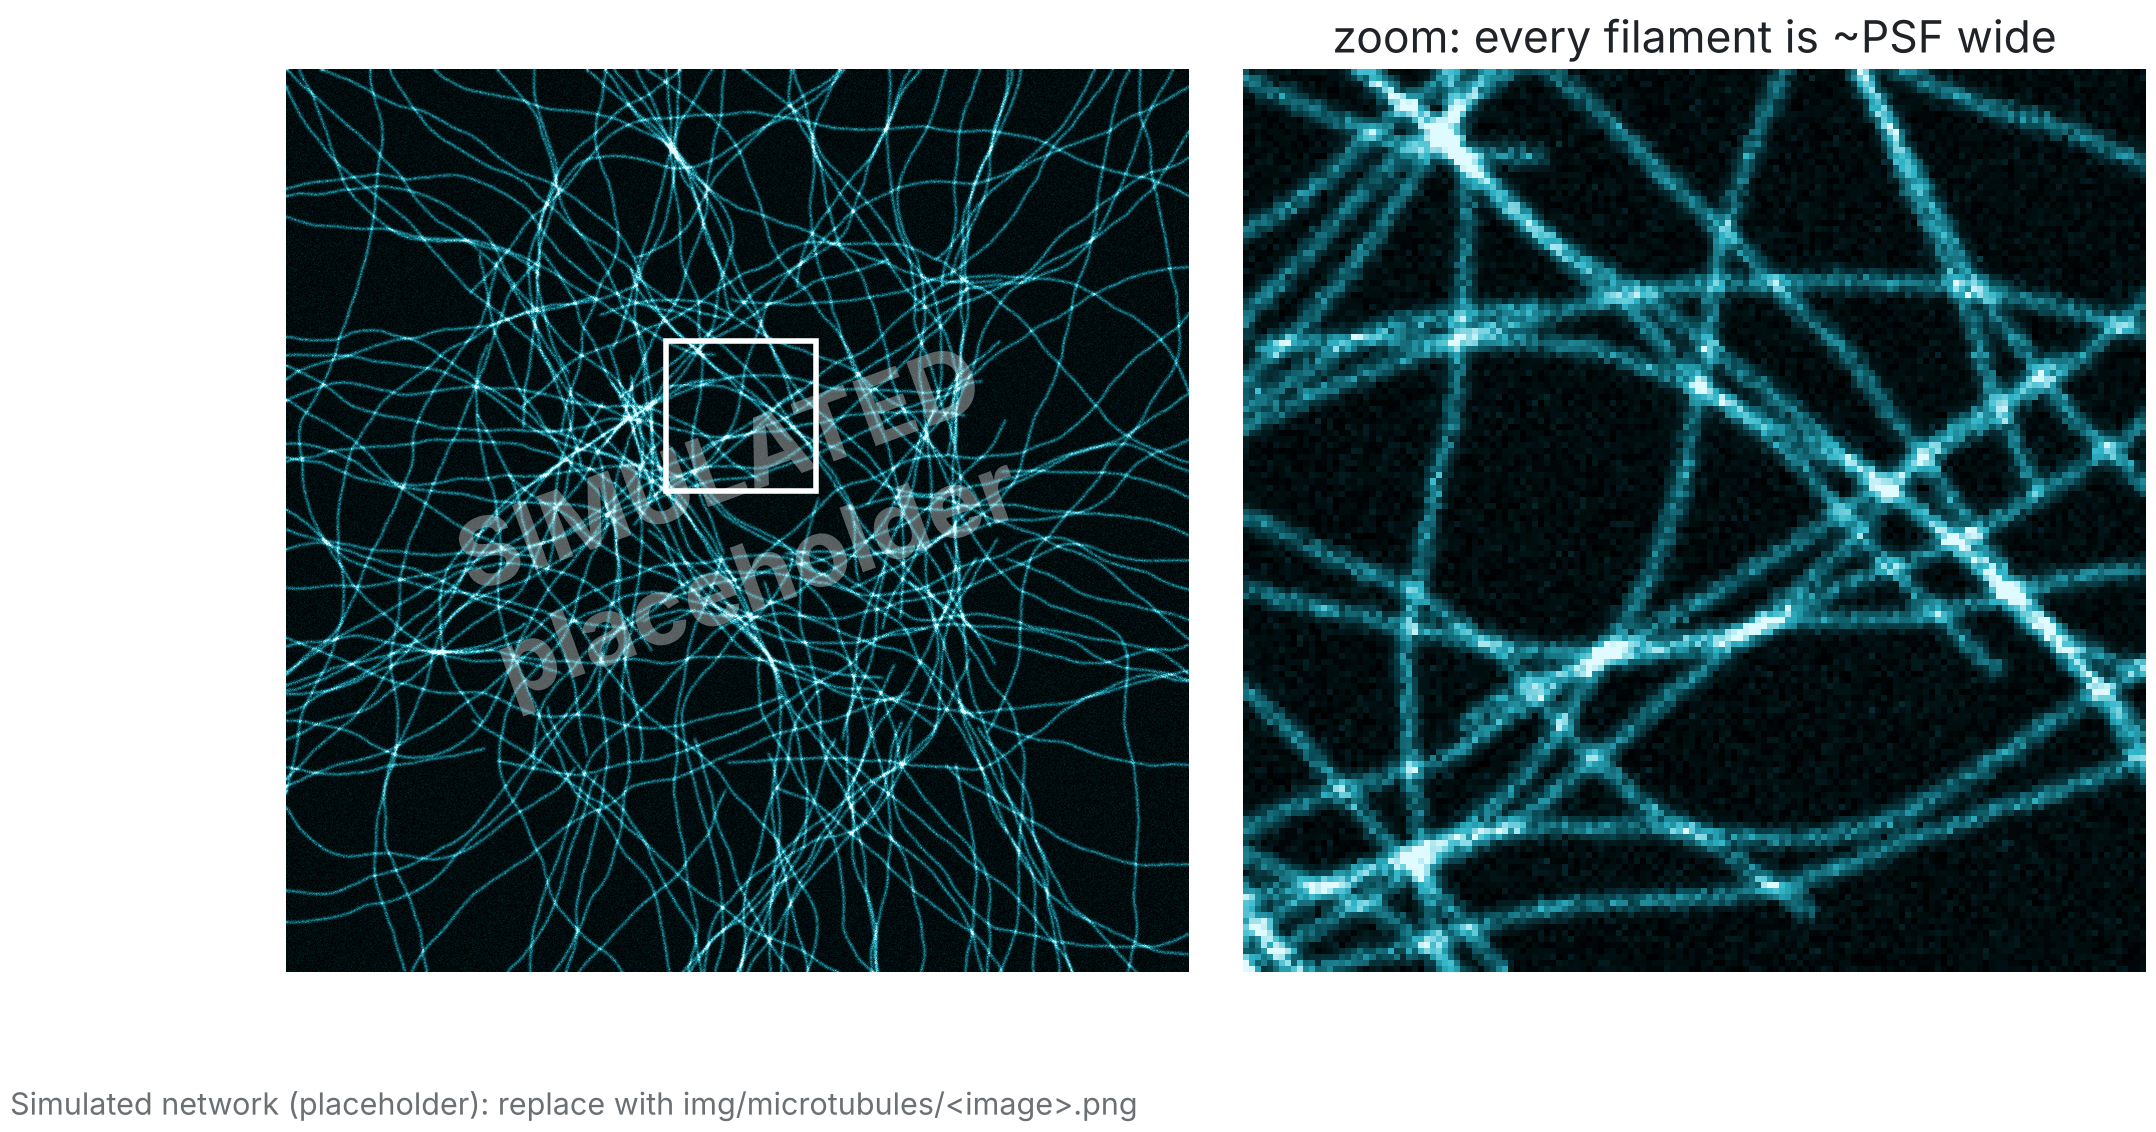
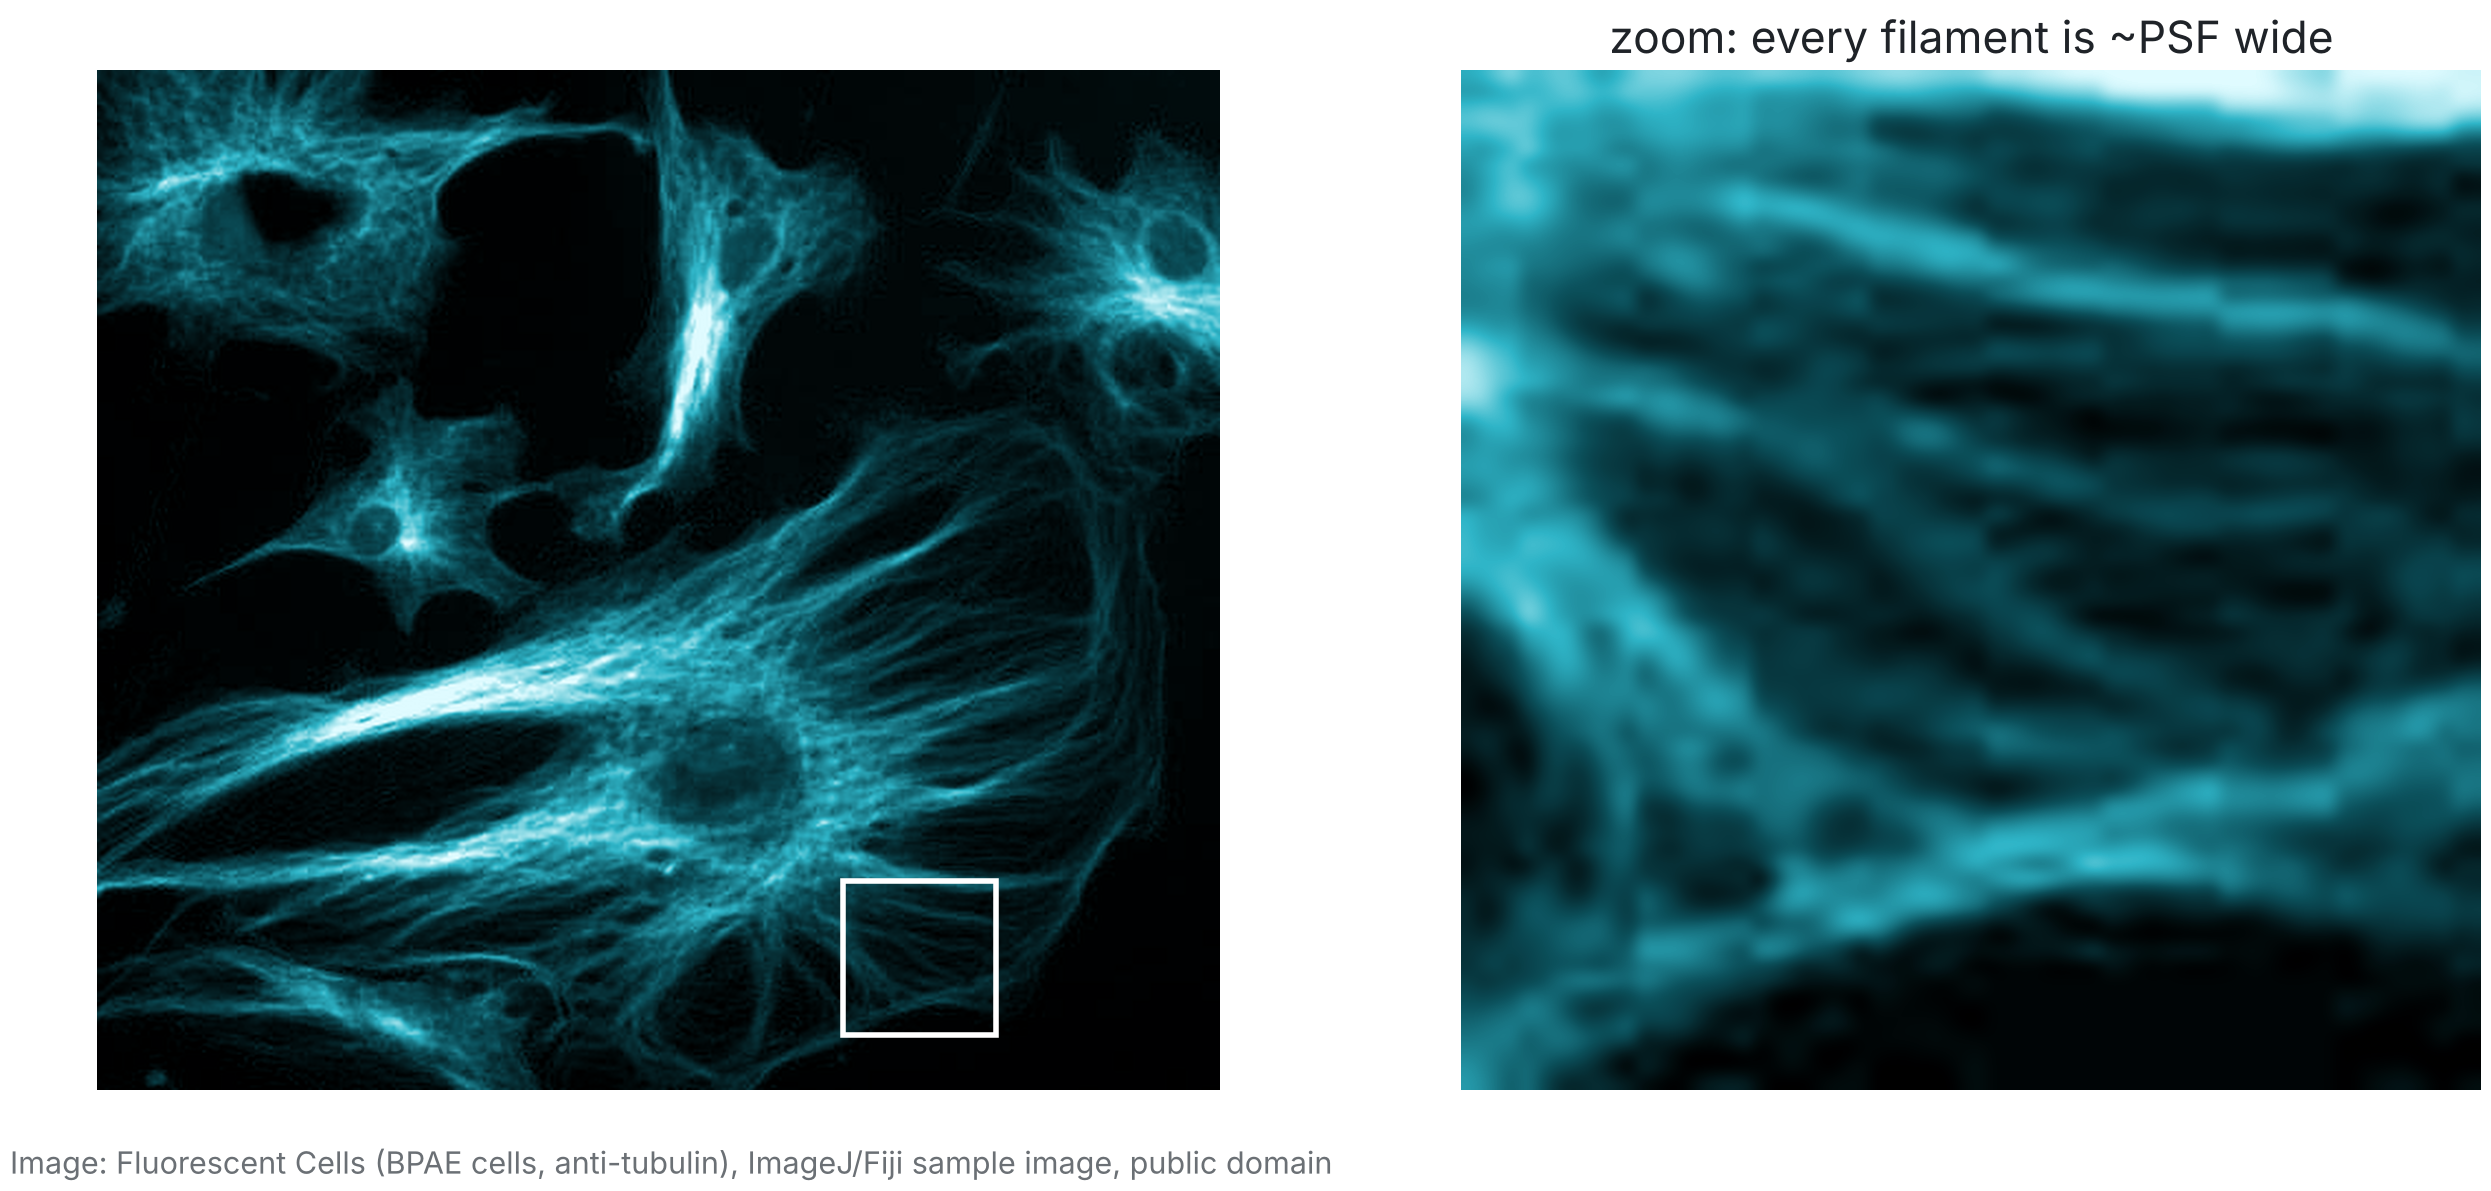
Use Fiji "Fluorescent Cells" tubulin channel on the biologist slide
Claude-Session: https://claude.ai/code/session_013q9SX9yawimzkdwafhuqyy

diff --git a/figures/make_figures.py b/figures/make_figures.py
@@ -213,7 +213,21 @@ def airy():
 # ===========================================================================
 # Biologist slide (9)
 # ===========================================================================
-ZOOM_CENTRE = (0.30, 0.42)   # (row, col) of the zoom box's top-left corner, as fractions of the image
+# Per-image settings for the biologist slide, keyed by a substring of the file name.
+#   crop  : (row0, row1, col0, col1) region kept from the image (None = whole image)
+#   zoom  : (row, col, size) of the zoom box, in pixels of the cropped image
+#   credit: line printed under the figure
+MICROTUBULE_SOURCES = {
+    "FluorescentCells": dict(           # Fiji › File › Open Samples › Fluorescent Cells, tubulin channel
+        crop=(0, 465, 0, 512),           # drops Fiji's burned-in "Press 'I' (Image>Show Info)…" overlay
+        zoom=(370, 340, 70),
+        credit="Image: Fluorescent Cells (BPAE cells, anti-tubulin), ImageJ/Fiji sample image, public domain",
+    ),
+    "Vindin": dict(
+        crop=None, zoom=None,
+        credit="Image: H. Vindin, Microtubules in primary mouse embryonic fibroblasts, CC BY 4.0, Wikimedia Commons",
+    ),
+}
 CYAN = LinearSegmentedColormap.from_list("cyan", ["black", "#0B4F5A", "#2FB5C8", "#DFFBFF"])
 
 
@@ -240,27 +254,32 @@ def _simulated_network(n=900, px_nm=65.0, seed=3):
 
 
 def biologist():
-    src = sorted((ROOT / "img" / "microtubules").glob("*.png")) + \
-        sorted((ROOT / "img" / "microtubules").glob("*.tif*"))
+    folder = ROOT / "img" / "microtubules"
+    src = sorted(p for p in folder.glob("*") if p.suffix.lower() in (".png", ".tif", ".tiff", ".jpg"))
     simulated = not src
+    cfg = dict(crop=None, zoom=None, credit=None)
     if simulated:
         img = _simulated_network()
     else:
-        im = np.asarray(Image.open(src[0]).convert("RGB")).astype(float)
-        img = im.max(axis=2) if im[..., 1].mean() > 0 else im[..., 0]     # tubulin channel (cyan/green)
-        if "Fluorescent" in src[0].name or "fluorescent" in src[0].name:
-            img = im[..., 1]                                             # Fiji sample: green = tubulin
+        cfg.update(next((c for k, c in MICROTUBULE_SOURCES.items() if k.lower() in src[0].name.lower()), {}))
+        rgb = np.asarray(Image.open(src[0]).convert("RGB")).astype(float)
+        img = rgb.max(axis=2)                  # single-colour LUT (cyan, green…): brightest channel = intensity
+        if cfg["crop"]:
+            r0, r1, c0, c1 = cfg["crop"]
+            img = img[r0:r1, c0:c1]
     img = (img - np.percentile(img, 1)) / (np.percentile(img, 99.7) - np.percentile(img, 1))
     img = np.clip(img, 0, 1)
 
     h, w = img.shape
-    # zoom box: brightest-edge-free region with filaments, 1/6 of the field
-    bs = h // 6
-    cy, cx = int(h * ZOOM_CENTRE[0]), int(w * ZOOM_CENTRE[1])
-    fig, axs = plt.subplots(1, 2, figsize=(12, 6), gridspec_kw=dict(width_ratios=[1, 1], wspace=0.06))
+    cy, cx, bs = cfg["zoom"] or (int(h * 0.30), int(w * 0.42), h // 6)
+    fig, axs = plt.subplots(1, 2, figsize=(6 * (w / h + 1) + 0.4, 6),
+                            gridspec_kw=dict(width_ratios=[w / h, 1], wspace=0.04))
     axs[0].imshow(img, cmap=CYAN, interpolation="lanczos")
-    axs[0].add_patch(plt.Rectangle((cx, cy), bs, bs, fill=False, ec="white", lw=2))
-    axs[1].imshow(zoom(img[cy:cy + bs, cx:cx + bs], 1, order=1), cmap=CYAN, interpolation="nearest")
+    axs[0].add_patch(plt.Rectangle((cx - 0.5, cy - 0.5), bs, bs, fill=False, ec="white", lw=2))
+    z = img[cy:cy + bs, cx:cx + bs]
+    lo, hi = np.percentile(z, 1), np.percentile(z, 99.5)      # contrast set within the zoom
+    axs[1].imshow(np.clip((z - lo) / (hi - lo), 0, 1), cmap=CYAN, interpolation="bicubic")
+    fig.subplots_adjust(left=0.005, right=0.995, top=0.92, bottom=0.07)
     for ax in axs:
         _clean(ax)
     axs[1].set_title("zoom: every filament is ~PSF wide", fontsize=16, color=INK)
@@ -269,8 +288,7 @@ def biologist():
                     fontsize=34, color="white", alpha=0.35, fontweight="bold", rotation=20)
         credit = "Simulated network (placeholder): replace with img/microtubules/<image>.png"
     else:
-        credit = ("Image: H. Vindin, Microtubules in primary mouse embryonic fibroblasts, CC BY 4.0, Wikimedia Commons"
-                  if "Vindin" in src[0].name else f"Image: {src[0].stem}")
+        credit = cfg["credit"] or f"Image: {src[0].stem}"
     fig.text(0.01, 0.0, credit, fontsize=11, color=MUTED)
     fig.savefig(OUT / "biologist_microtubules.png")
     plt.close(fig)

diff --git a/img/microtubules/README.md b/img/microtubules/README.md
@@ -1,15 +1,16 @@
 # Microtubule image for slide 9 ("Resolution, explained to a biologist")
 
-Put **one** image here and re-run `python figures/make_figures.py`.
+`C2-FluorescentCells.png` is the tubulin channel (C2) of the Fiji sample *Fluorescent Cells*
+(Fiji › File › Open Samples › Fluorescent Cells; BPAE cells, anti-tubulin; public domain), exported with a cyan LUT.
+
+`figures/make_figures.py` reads the first image in this folder and uses the matching entry in `MICROTUBULE_SOURCES`:
+- `crop` drops the "Press 'I' (Image>Show Info)…" text that Fiji burns into the bottom-right corner;
+- `zoom` sets the zoom box (row, col, size in pixels);
+- `credit` sets the line printed under the figure.
+
+The image has no pixel-size calibration, so the slide stays qualitative.
 If this folder has no image, a clearly labelled *simulated* network is used instead.
 
-**Preferred:** *Microtubules in Primary Mouse Embryonic Fibroblasts* by Howard Vindin, CC BY 4.0
-- Page: https://commons.wikimedia.org/wiki/File:Microtubules_in_Primary_Mouse_Embryonic_Fibroblasts.png
-- File: https://upload.wikimedia.org/wikipedia/commons/a/a3/Microtubules_in_Primary_Mouse_Embryonic_Fibroblasts.png
-- Save as `Vindin_pMEF_microtubules_CC-BY-4.0.png` (the name containing "Vindin" puts the credit line on the slide automatically).
-
-**Fallback:** Fiji › File › Open Samples › *Fluorescent Cells* (BPAE cells; green = tubulin; public domain).
-Save as `FluorescentCells.tif` (the script uses the green channel).
-
-Neither image states its pixel size, so the slide stays qualitative.
-Adjust `ZOOM_CENTRE` in `figures/make_figures.py` if the zoom box lands on an empty area.
+Alternative: *Microtubules in Primary Mouse Embryonic Fibroblasts* by Howard Vindin, CC BY 4.0
+(https://commons.wikimedia.org/wiki/File:Microtubules_in_Primary_Mouse_Embryonic_Fibroblasts.png); a file name
+containing "Vindin" selects its credit line.

diff --git a/CONTEXT.md b/CONTEXT.md
@@ -98,9 +98,10 @@ Last updated: 2026-11-02.
 
 - **2026-11-09:** Logos added. Cover: Departamento de Física + CMA bottom-left, GloBIAS + LABI bottom-right, footer hidden. Thank-you slide (which also holds the contact details): logos of CMA, Departamento de Física, FUNDACEN, GloBIAS and LABI, plus a credit line for the NEUBIAS training resources. Display copies made of the CMA logo (subtitle width fixed) and the LABI logo (white original, cropped and recoloured dark).
 
+- **2026-11-09:** Biologist slide now uses the tubulin channel of the Fiji sample *Fluorescent Cells* (public domain; `img/microtubules/C2-FluorescentCells.png`). Fiji's burned-in info text is cropped off. The zoom box (rows 370–440, cols 340–410) shows filaments fanning out at the cell edge, with contrast set within the zoom. The image has no calibration, so the slide stays qualitative.
+
 ## 5. Open items / to confirm with speaker
 - Rehearse and check timing (20 min)
 - Working Group logistics: sign-up channel and meeting point at the conference
-- Microtubule image saved into `img/microtubules/`
 - Create the GitHub repo (`acorbat/globias2026-bia-curriculum-talk`?)
 - Whether to cite the Sivagurunathan et al. 2024 survey with numbers (not yet read; must be verified before use)

diff --git a/README.md b/README.md
@@ -56,6 +56,6 @@ for white backgrounds.
 
 ## Credits
 
-- Microtubule image (once added): H. Vindin, CC BY 4.0, Wikimedia Commons.
+- Microtubule image: *Fluorescent Cells* (BPAE cells, anti-tubulin channel), ImageJ/Fiji sample image, public domain.
 - Module data: NEUBIAS Bioimage Analysis Training Resources (CC BY 4.0); Tischer et al. 2026, *J. Microsc.* 304:3–14.
 - Curriculum prototype: <https://github.com/acorbat/bia_curriculum> (CC BY 4.0).
